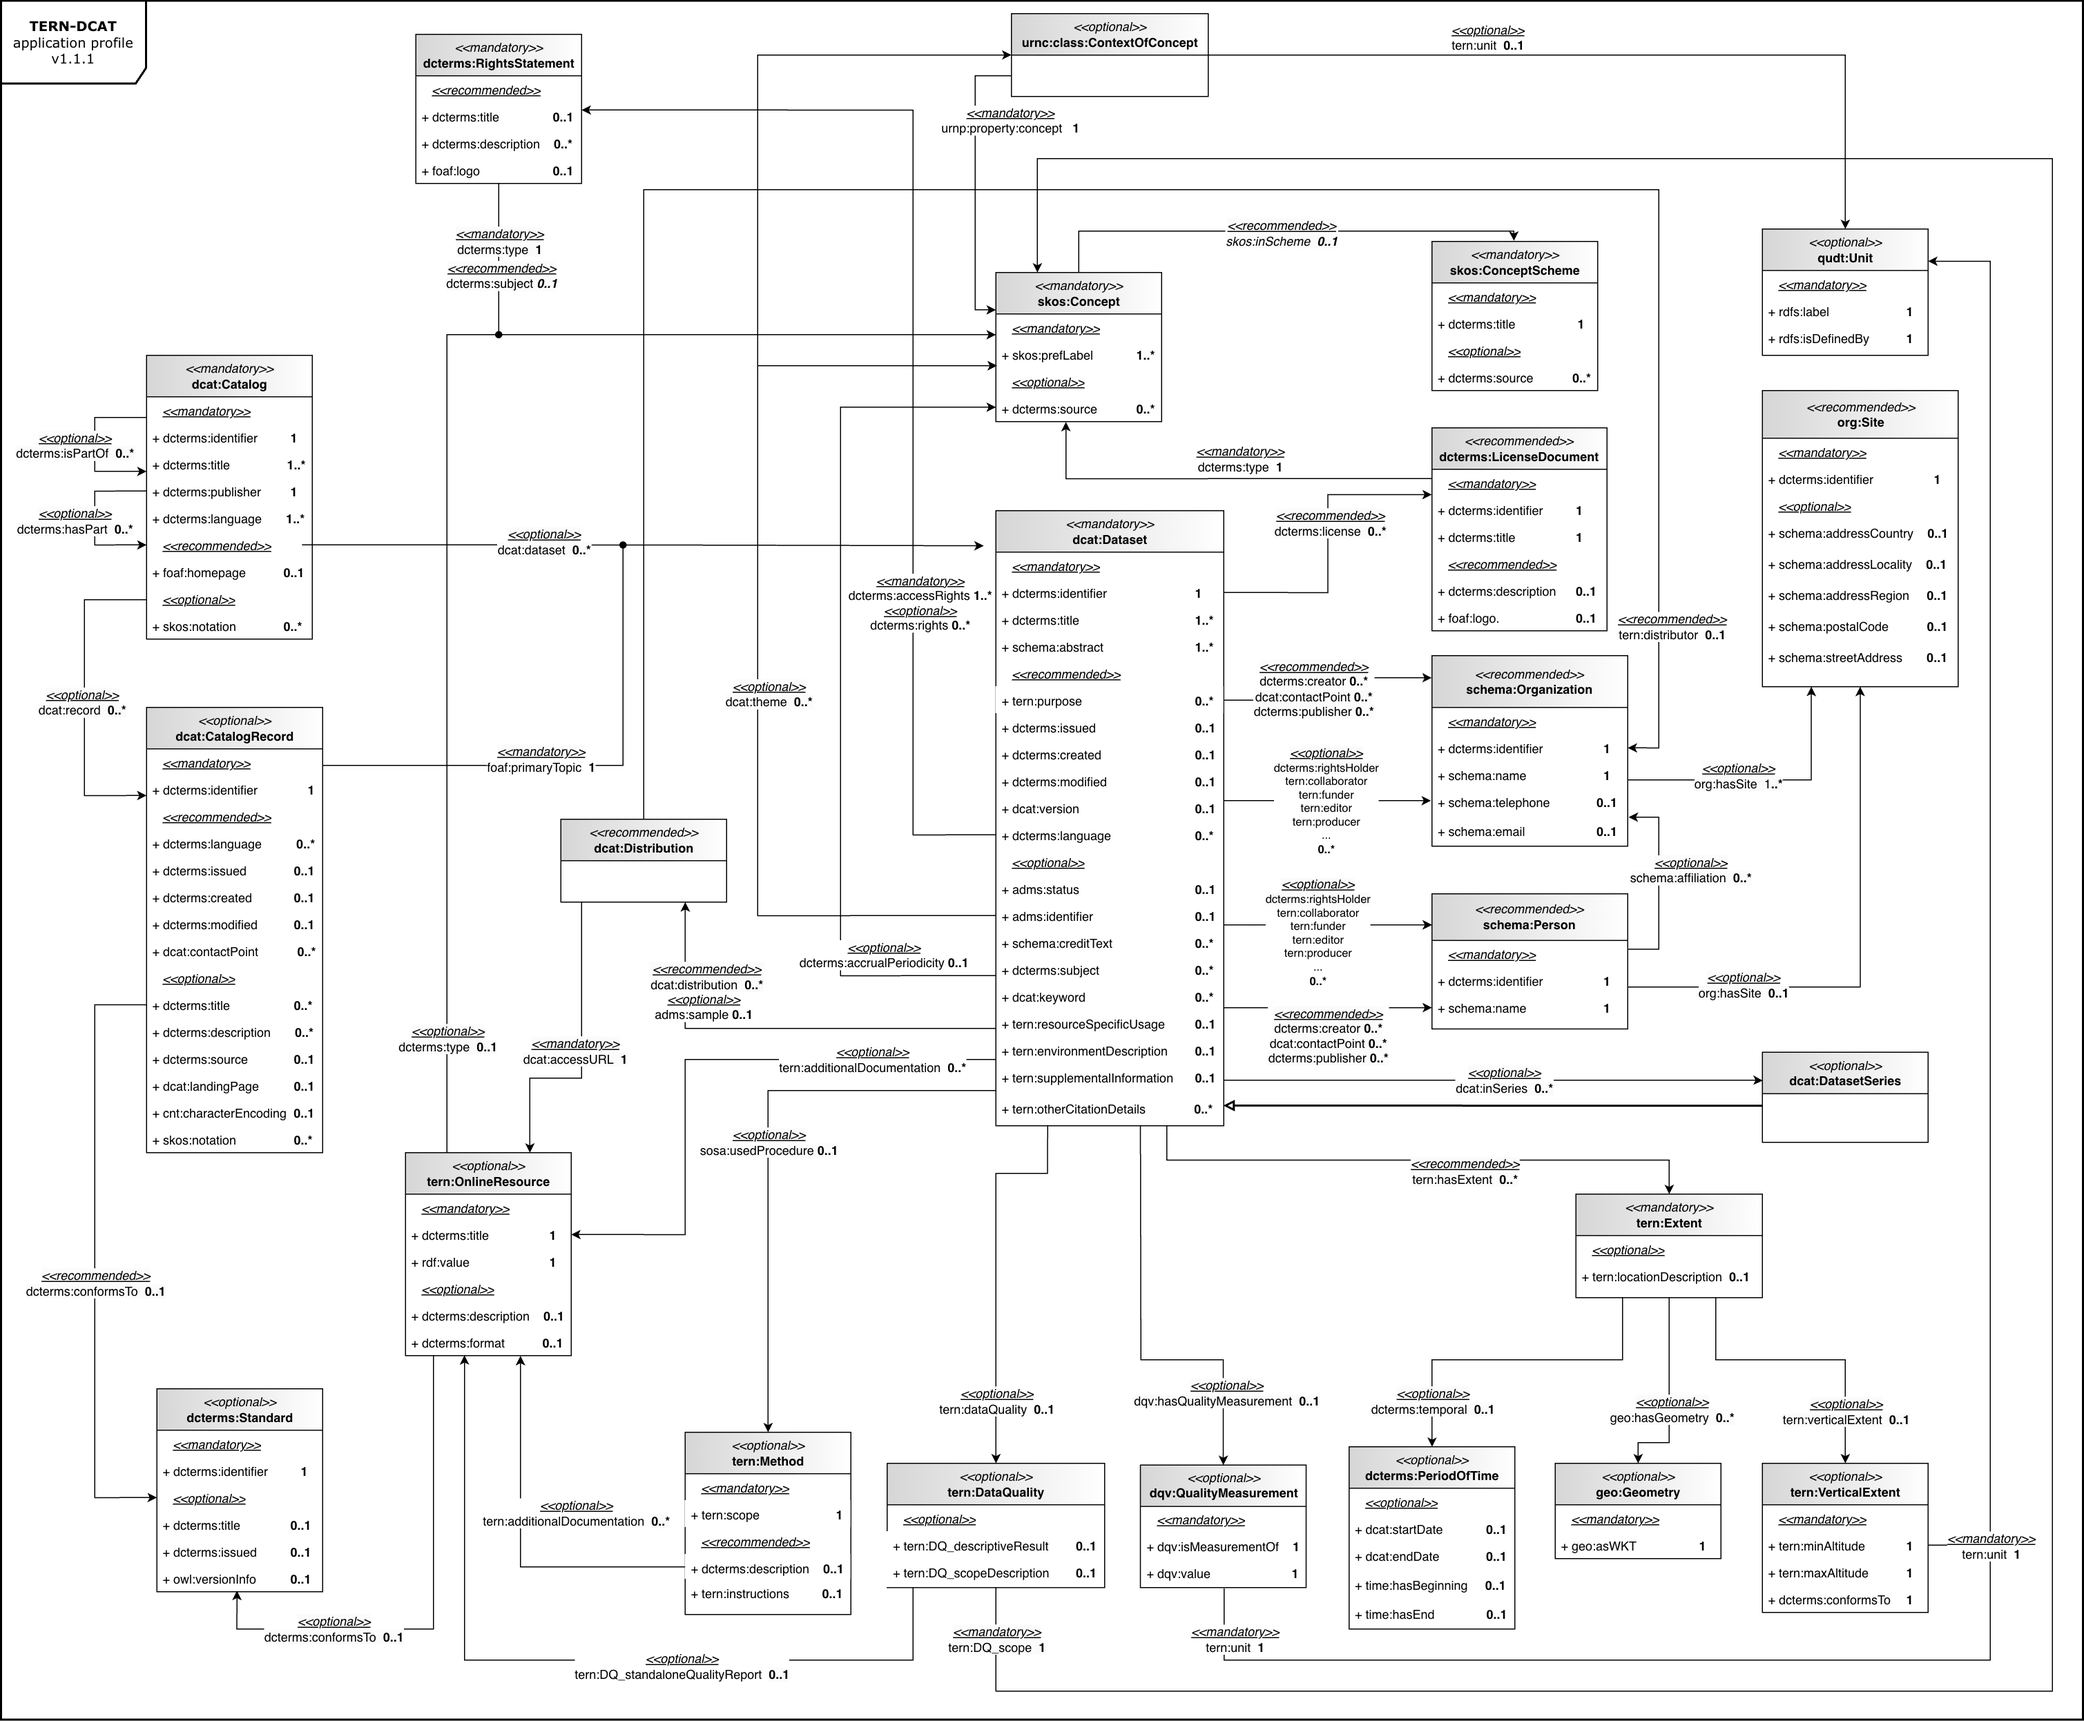
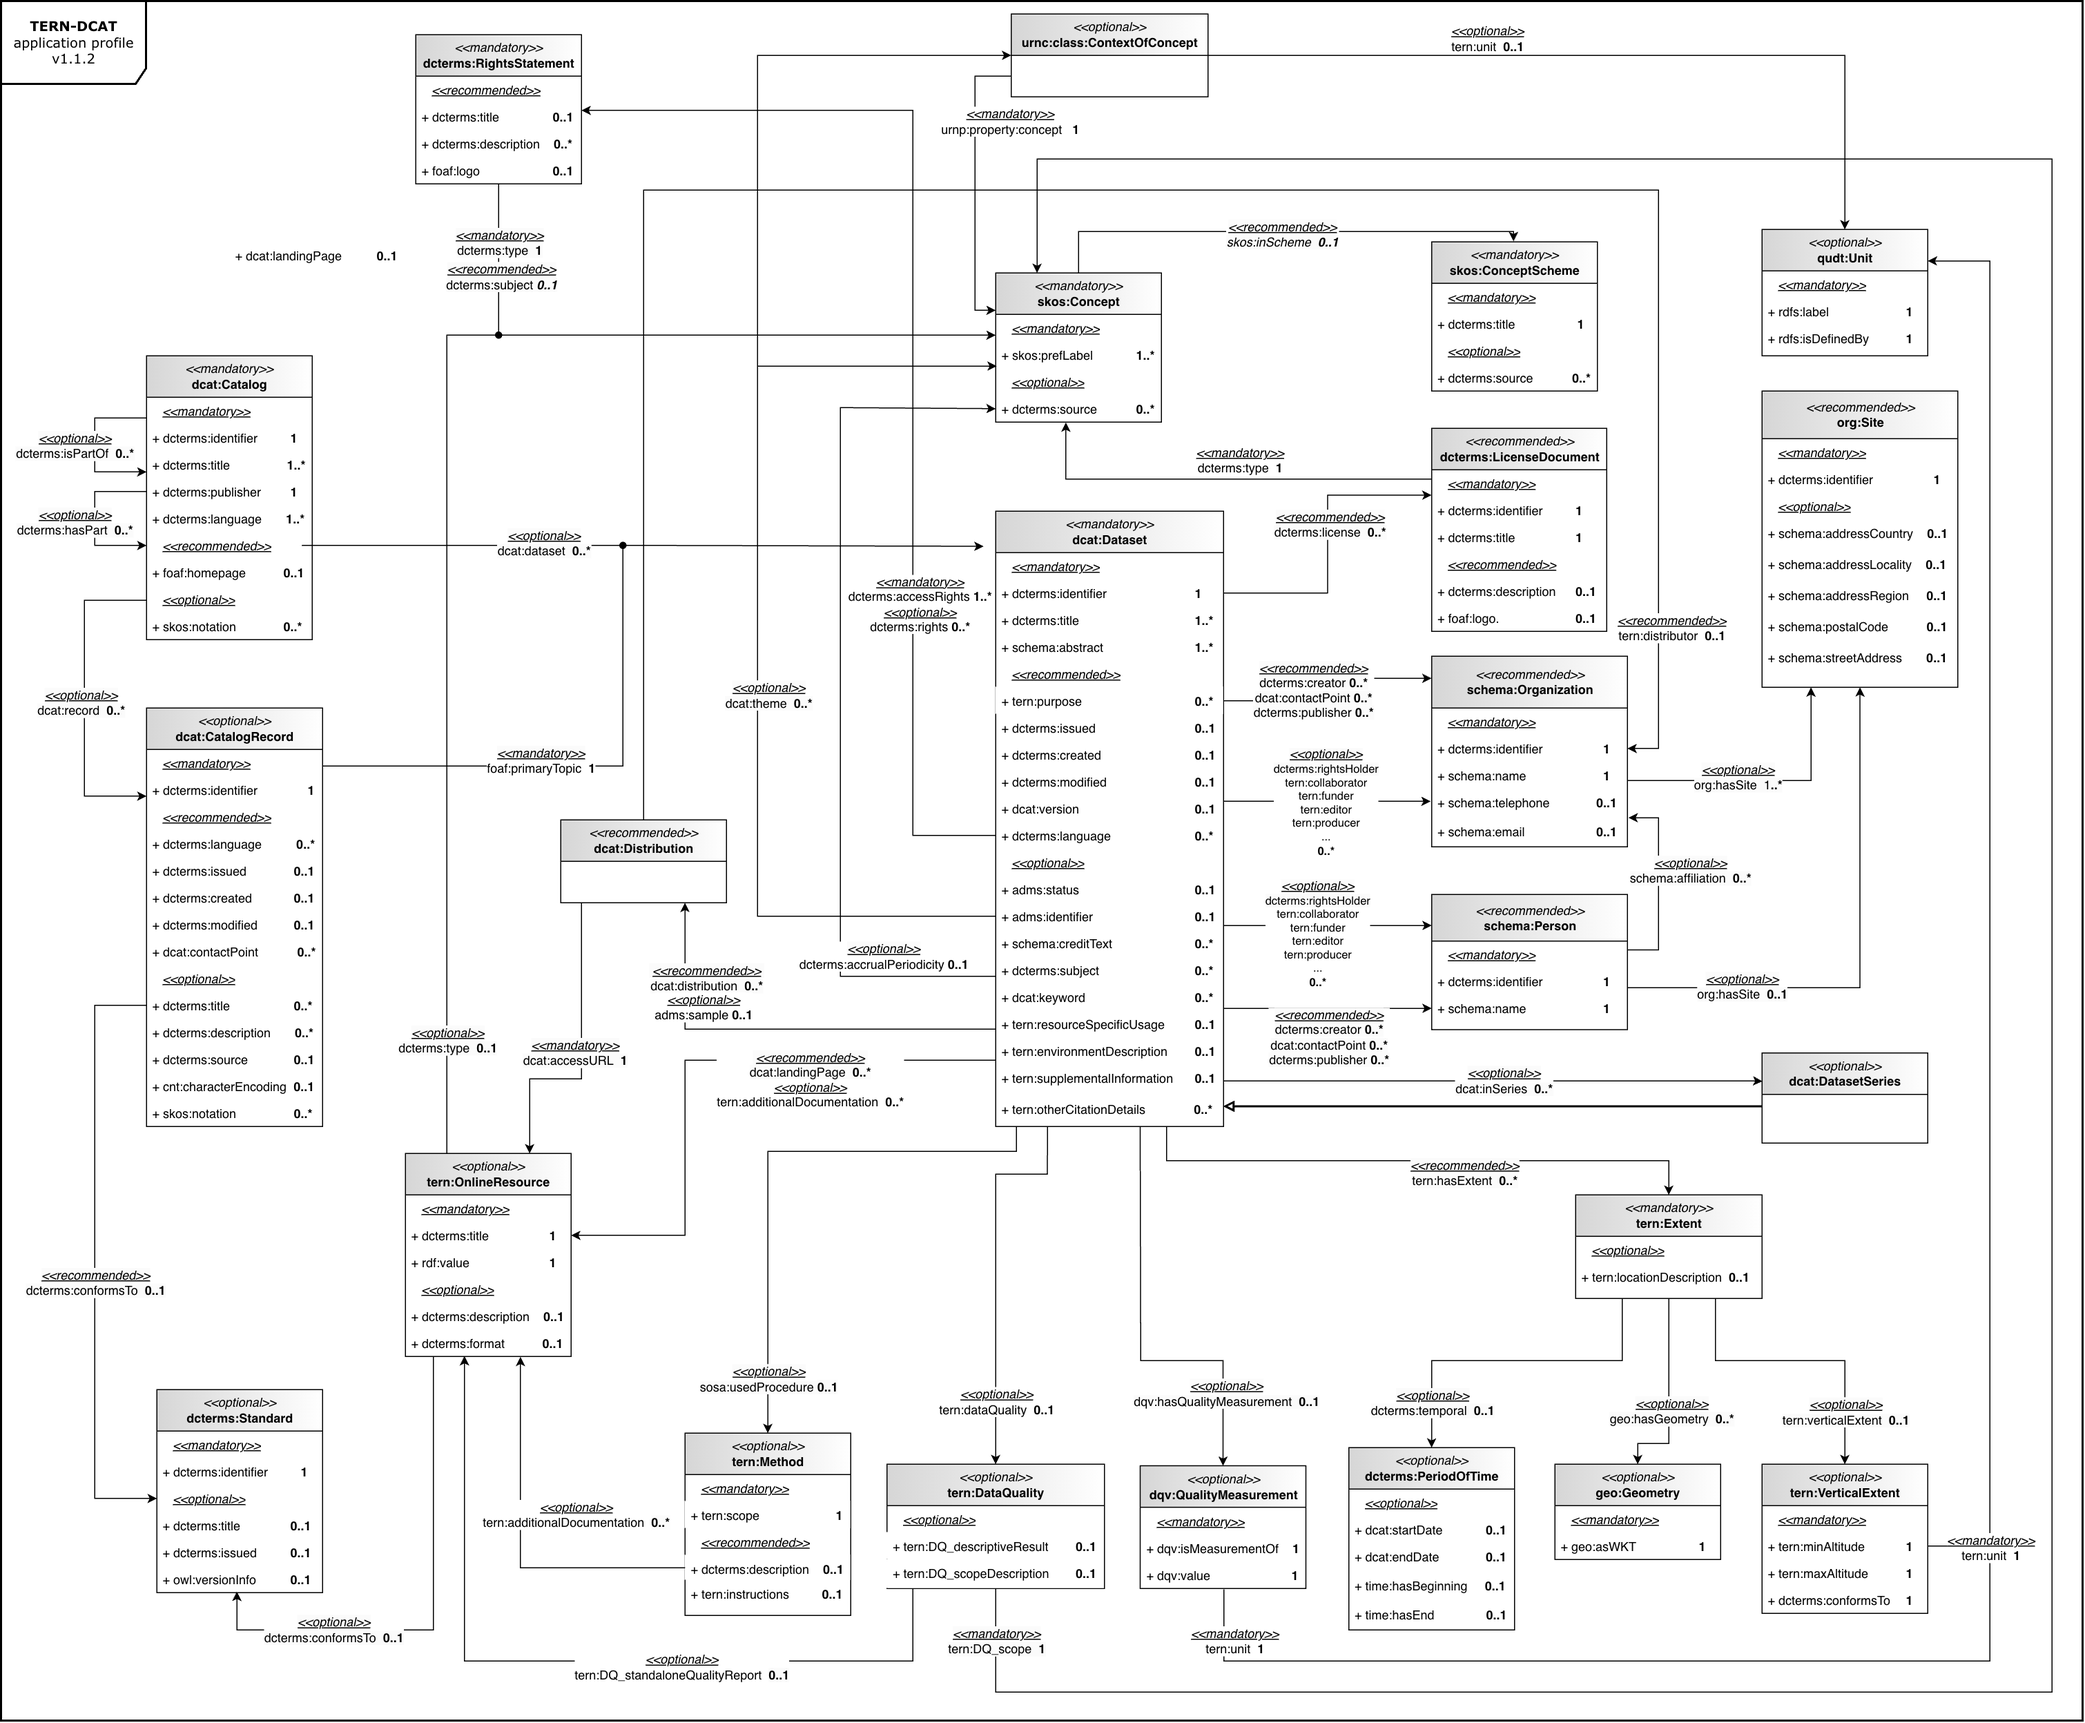
Update TERN-DCAT to v.1.1.2 with improvements in Dataset landing page

diff --git a/docs/index.html b/docs/index.html
@@ -672,7 +672,6 @@
             <li><a href="#CatalogueRecord.creationDate">creation date</a></li>
             <li><a href="#CatalogueRecord.description">description</a></li>
             <li><a href="#CatalogueRecord.identifier">identifier</a></li>
-            <li><a href="#CatalogueRecord.landingPage">landing page</a></li>
             <li><a href="#CatalogueRecord.language">language</a></li>
             <li><a href="#CatalogueRecord.modificationDate">modification date</a></li>
             <li><a href="#CatalogueRecord.notation">notation</a></li>
@@ -833,30 +832,6 @@
                 (e.g., Geonetwork). </td>
               <td> </td>
               <td> P </td>
-            </tr>
-
-            <tr id="CatalogueRecord.landingPage" typeof="rdfs:Property" resource="http://www.w3.org/ns/dcat#landingPage"
-              class="class mandatory">
-              <td>
-                <a href="http://www.w3.org/ns/dcat#landingPage" data-toggle="tooltip"
-                  data-content="http://www.w3.org/ns/dcat#landingPage" data-placement="right">
-                  landing page</a>
-              </td>
-              <td>
-                <a href="#Literal" data-placement="right">Literal</a>
-              </td>
-              <td> 0..1 </td>
-              <td property="rdfs:comment">
-                A web page that provides access to the Data Catalogue Record and/or additional information.
-              </td>
-              <td property="skos:scopeNote">It is intended to point to a landing page at the original data provider, not
-                to a page on a site of a third party, such as an aggregator.</td>
-              <td>
-                <a href="https://www.w3.org/TR/vocab-dcat-3/#Property:resource_landing_page">Link</a>
-              </td>
-              <td>
-                <a href="https://www.w3.org/TR/vocab-dcat-3/#Property:resource_landing_page">A</a>
-              </td>
             </tr>
 
             <tr id="CatalogueRecord.language" typeof="rdfs:Property" resource="http://purl.org/dc/terms/language"
@@ -1027,11 +1002,10 @@
                 dcterms:identifier &quot;9210c331-ba96-4e0c-9554-f029d61534be&quot; ;
                 dcterms:language &lt;http://id.loc.gov/vocabulary/iso639-2/eng&gt; ;
                 dcterms:modified &quot;2024-12-11T00:00:00&quot;^^xsd:dateTime ;
-                dcterms:source &quot;https://geonetwork.tern.org.au/geonetwork/srv/api/records/9210c331-ba96-4e0c-9554-f029d61534be/formatters/xml&quot;^^xsd:anyURI ;
                 skos:notation &quot;TERN&quot; ;
                 cnt:characterEncoding &quot;utf8&quot; ;
                 dcat:contactPoint &lt;ex_contact_point&gt; ;
-                dcat:landingPage &quot;https://geonetwork.tern.org.au/geonetwork/srv/eng/catalog.search#/metadata/9210c331-ba96-4e0c-9554-f029d61534be&quot;^^xsd:anyURI ;
+                dcterms:source &quot;https://geonetwork.tern.org.au/geonetwork/srv/eng/catalog.search#/metadata/9210c331-ba96-4e0c-9554-f029d61534be&quot;^^xsd:anyURI ;
                 foaf:primaryTopic &lt;ex_dataset_1&gt; .
           </pre>
         </aside>
@@ -1592,6 +1566,7 @@
             <li><a href="#Dataset.identifier">identifier</a></li>
             <li><a href="#Dataset.inSeries">in series</a></li>
             <li><a href="#Dataset.keyword">keyword</a></li>
+            <li><a href="#Dataset.landingPage">landing page</a></li>
             <li><a href="#Dataset.language">language</a></li>
             <li><a href="#Dataset.license">licence</a></li>
             <li><a href="#Dataset.modificationDate">modified</a></li>
@@ -1968,6 +1943,30 @@
               </td>
               <td>
                 <a href="https://www.w3.org/TR/vocab-dcat-3/#Property:resource_keyword">A</a>
+              </td>
+            </tr>
+
+            <tr id="Dataset.landingPage" typeof="rdfs:Property" resource="http://www.w3.org/ns/dcat#landingPage"
+              class="class mandatory">
+              <td>
+                <a href="http://www.w3.org/ns/dcat#landingPage" data-toggle="tooltip"
+                  data-content="http://www.w3.org/ns/dcat#landingPage" data-placement="right">
+                  landing page</a>
+              </td>
+              <td>
+                <a href="#Resource" data-placement="right">Online Resource</a>
+              </td>
+              <td> 0..* </td>
+              <td property="rdfs:comment">
+                A web page that provides access to the Dataset, its Distributions and/or additional information.
+              </td>
+              <td property="skos:scopeNote">It is intended to point to a landing page at the original data
+                provider/publisher.</td>
+              <td>
+                <a href="https://www.w3.org/TR/vocab-dcat-3/#Property:resource_landing_page">Link</a>
+              </td>
+              <td>
+                <a href="https://www.w3.org/TR/vocab-dcat-3/#Property:resource_landing_page">A</a>
               </td>
             </tr>
 
@@ -2670,6 +2669,7 @@
             @prefix xsd: &lt;http://www.w3.org/2001/XMLSchema#&gt; .
             
             &lt;ex_dataset_1&gt; a dcat:Dataset ;
+                dcat:landingPage &lt;urn:resource:citation:ex_dataset_1:https%3A%2F%2Fportal.tern.org.au%2Fmetadata%2Fexample&gt; ;
                 dcterms:accrualPeriodicity &lt;https://schemas.isotc211.org/19115/resources/Codelist/cat/codelists.xml#MD_MaintenanceFrequencyCode_semimonthly&gt; ;
                 dcterms:created &quot;2024-08-01&quot;^^xsd:date ;
                 dcterms:creator [ a rdf:Seq ;
@@ -3676,6 +3676,12 @@
                 dcterms:title &quot;data quality report&quot; ;
                 dcterms:type &lt;https://schemas.isotc211.org/19115/resources/Codelist/cat/codelists.xml#CI_OnLineFunctionCode_information&gt; ;
                 rdf:value &quot;https://report.tern.org.au&quot;^^xsd:anyURI .
+
+            &lt;urn:resource:ex_resource_5&gt; a tern:OnlineResource ;
+                dcterms:conformsTo &lt;https://linked.data.gov.au/def/tern-cv/www:link-1.0-http--link&gt; ;
+                dcterms:title &quot;Dataset Metadata Page&quot; ;
+                dcterms:type &lt;https://schemas.isotc211.org/19115/resources/Codelist/cat/codelists.xml#CI_OnLineFunctionCode_information&gt; ;
+                rdf:value &quot;https://portal.tern.org.au/metadata/30d94622-52aa-57f6-977f-24235b0faada&quot;^^xsd:anyURI .
           </pre>
         </aside>
 

diff --git a/docs/config.js b/docs/config.js
@@ -1,13 +1,13 @@
 // All config options at https://respec.org/docs/
 var respecConfig = {
   github: "https://github.com/ternaustralia/TERN-DCAT",
-  shortName: "TERN-DCAT 1.1.1",
-  subtitle: "Version 1.1.1",
-  publishDate: "2026-08-06",
+  shortName: "TERN-DCAT 1.1.2",
+  subtitle: "Version 1.1.2",
+  publishDate: "2026-11-23",
   specStatus: "base",
   // noRecTrack: true,
   latestVersion:
-    "https://github.com/ternaustralia/TERN-DCAT/releases/tag/v1.1.1",
+    "https://github.com/ternaustralia/TERN-DCAT/releases/tag/v1.1.2",
   logos: [
     {
       src: "https://w3id.org/tern/static/tern-web/img/logo@2x.png",
@@ -53,8 +53,8 @@ var respecConfig = {
       data: [
         {
           value:
-            "https://github.com/ternaustralia/TERN-DCAT/releases/tag/v1.1.0",
-          href: "https://github.com/ternaustralia/TERN-DCAT/releases/tag/v1.1.0",
+            "https://github.com/ternaustralia/TERN-DCAT/releases/tag/v1.1.1",
+          href: "https://github.com/ternaustralia/TERN-DCAT/releases/tag/v1.1.1",
         },
       ],
     },

diff --git a/README.md b/README.md
@@ -10,7 +10,7 @@ The latest version of TERN-DCAT can be downloaded from the [releases](https://gi
 
 ## Releases
 
-- Release [TERN-DCAT v1.1.1](https://github.com/ternaustralia/TERN-DCAT/releases/tag/v1.1.1) - [Documentation](https://ternaustralia.github.io/TERN-DCAT/)
+- Release [TERN-DCAT v1.1.2](https://github.com/ternaustralia/TERN-DCAT/releases/tag/v1.1.2) - [Documentation](https://ternaustralia.github.io/TERN-DCAT/)
 
 
 ## Source files
